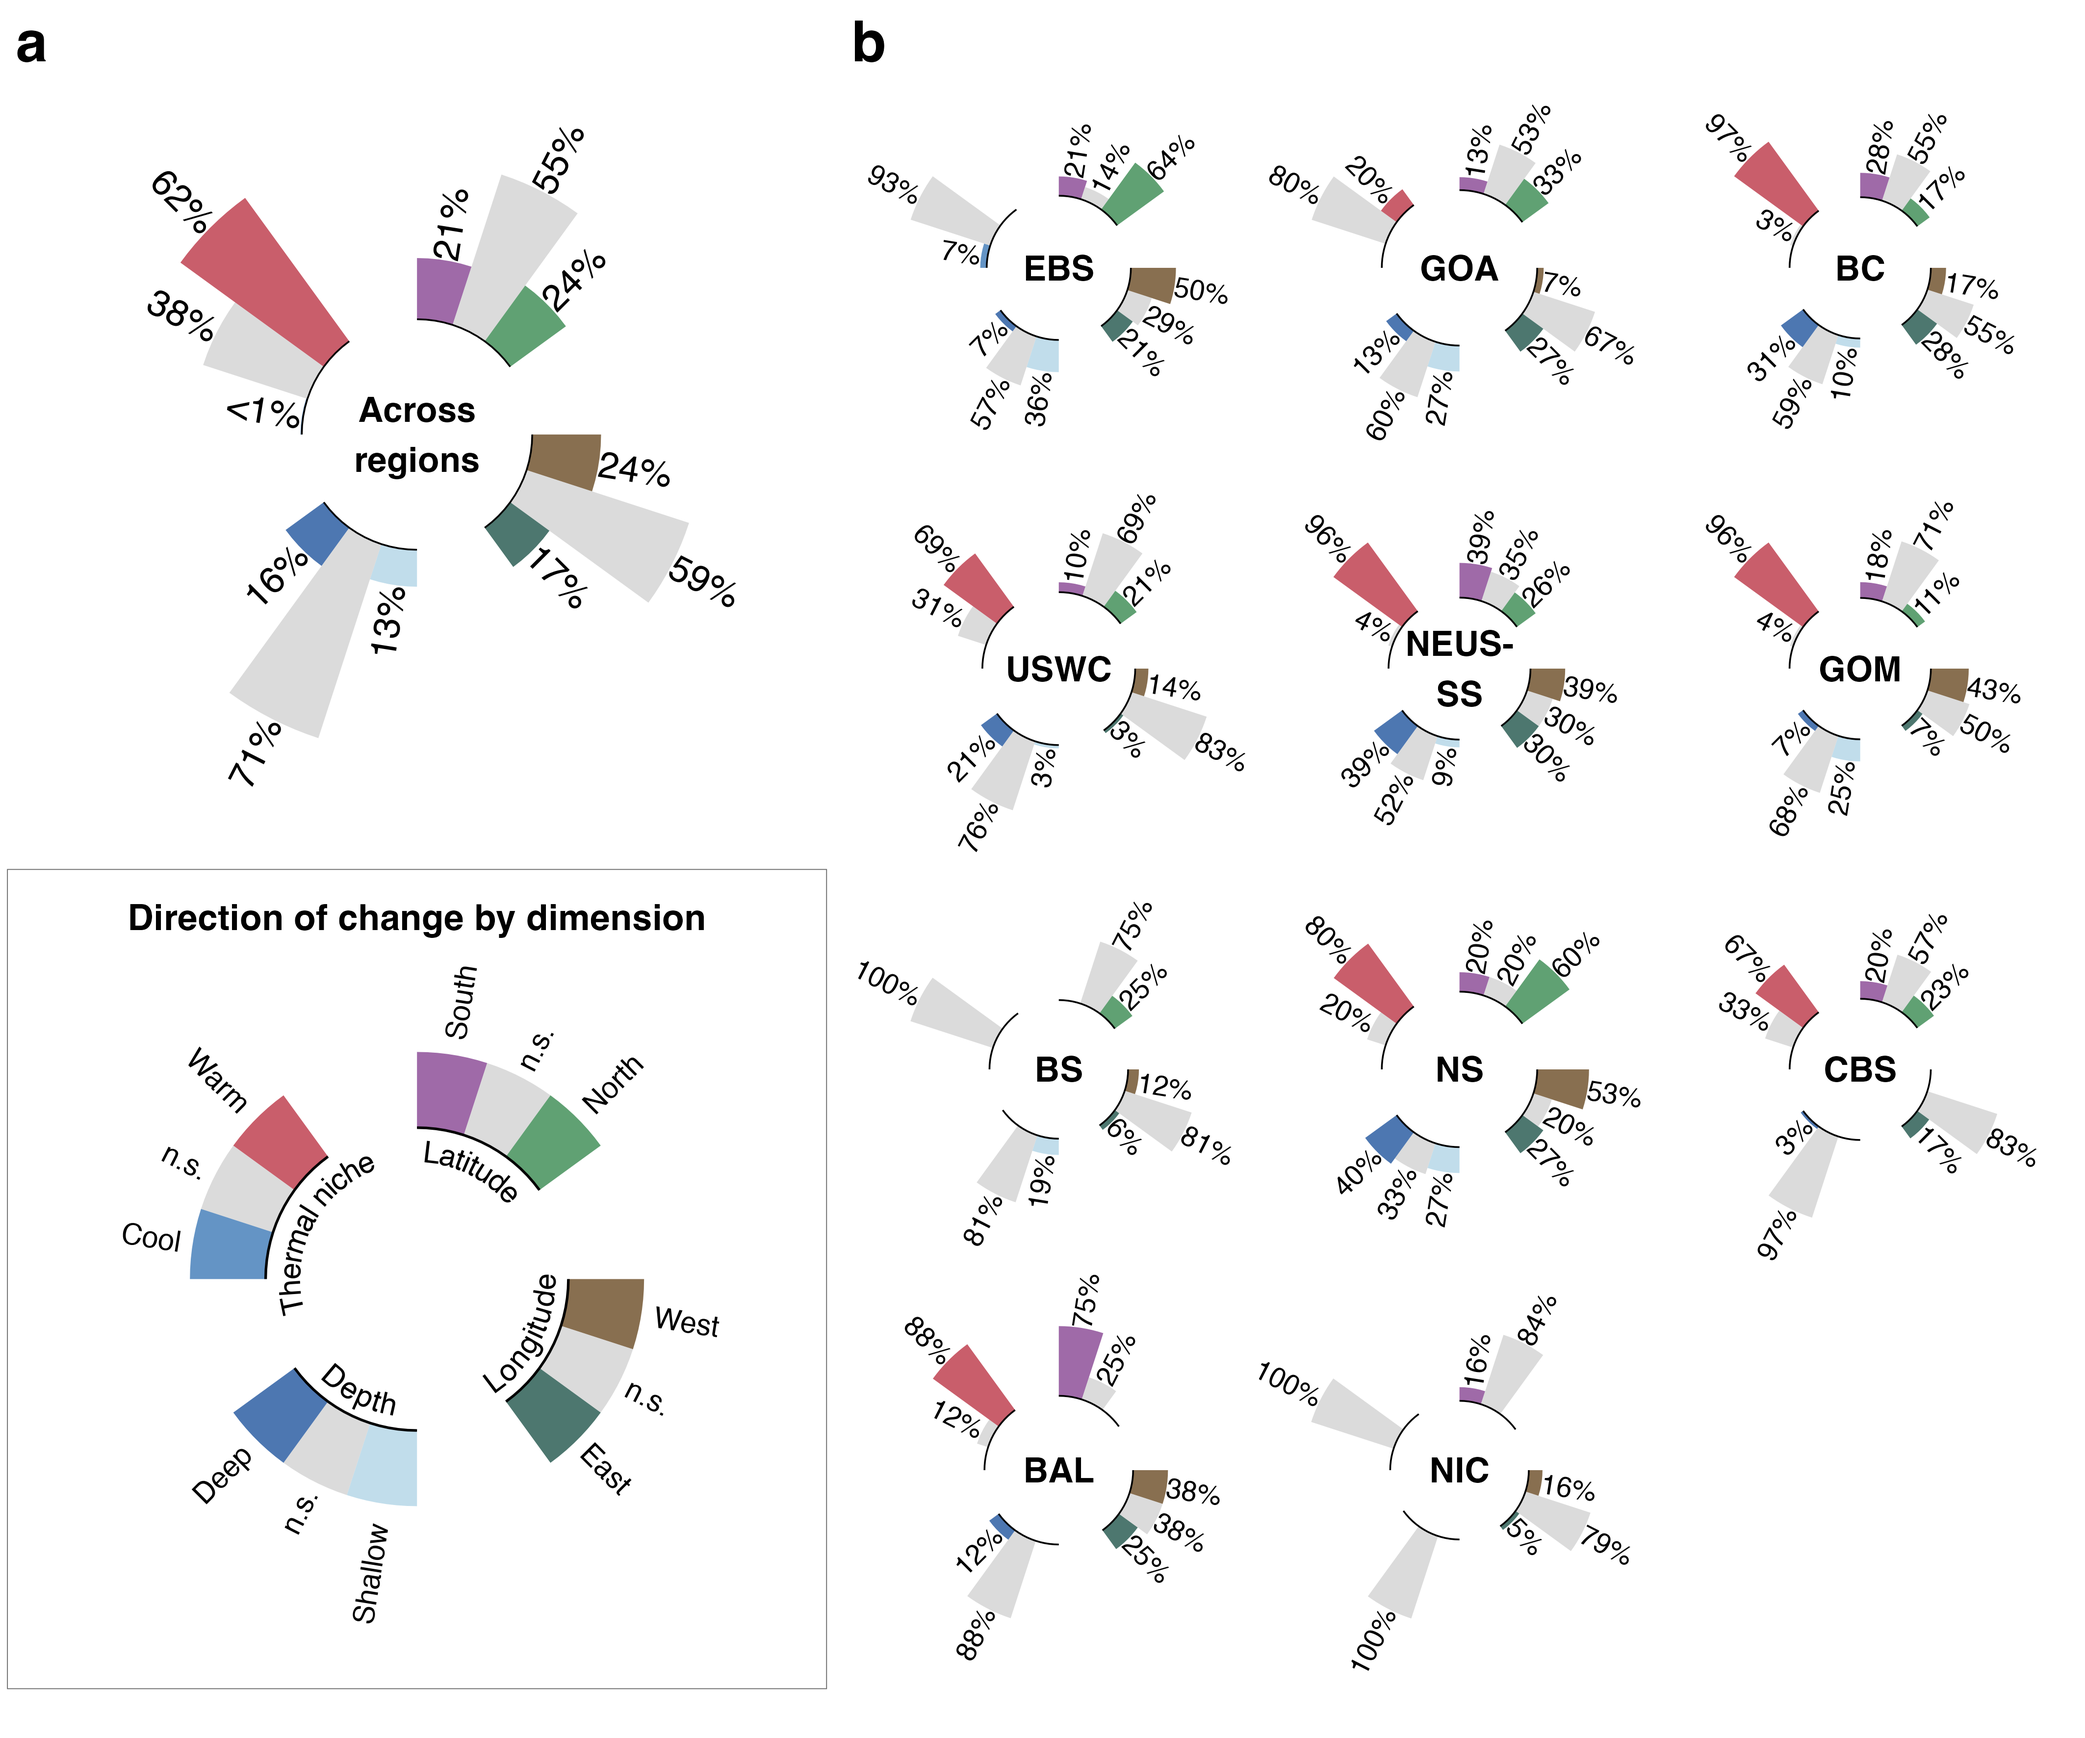
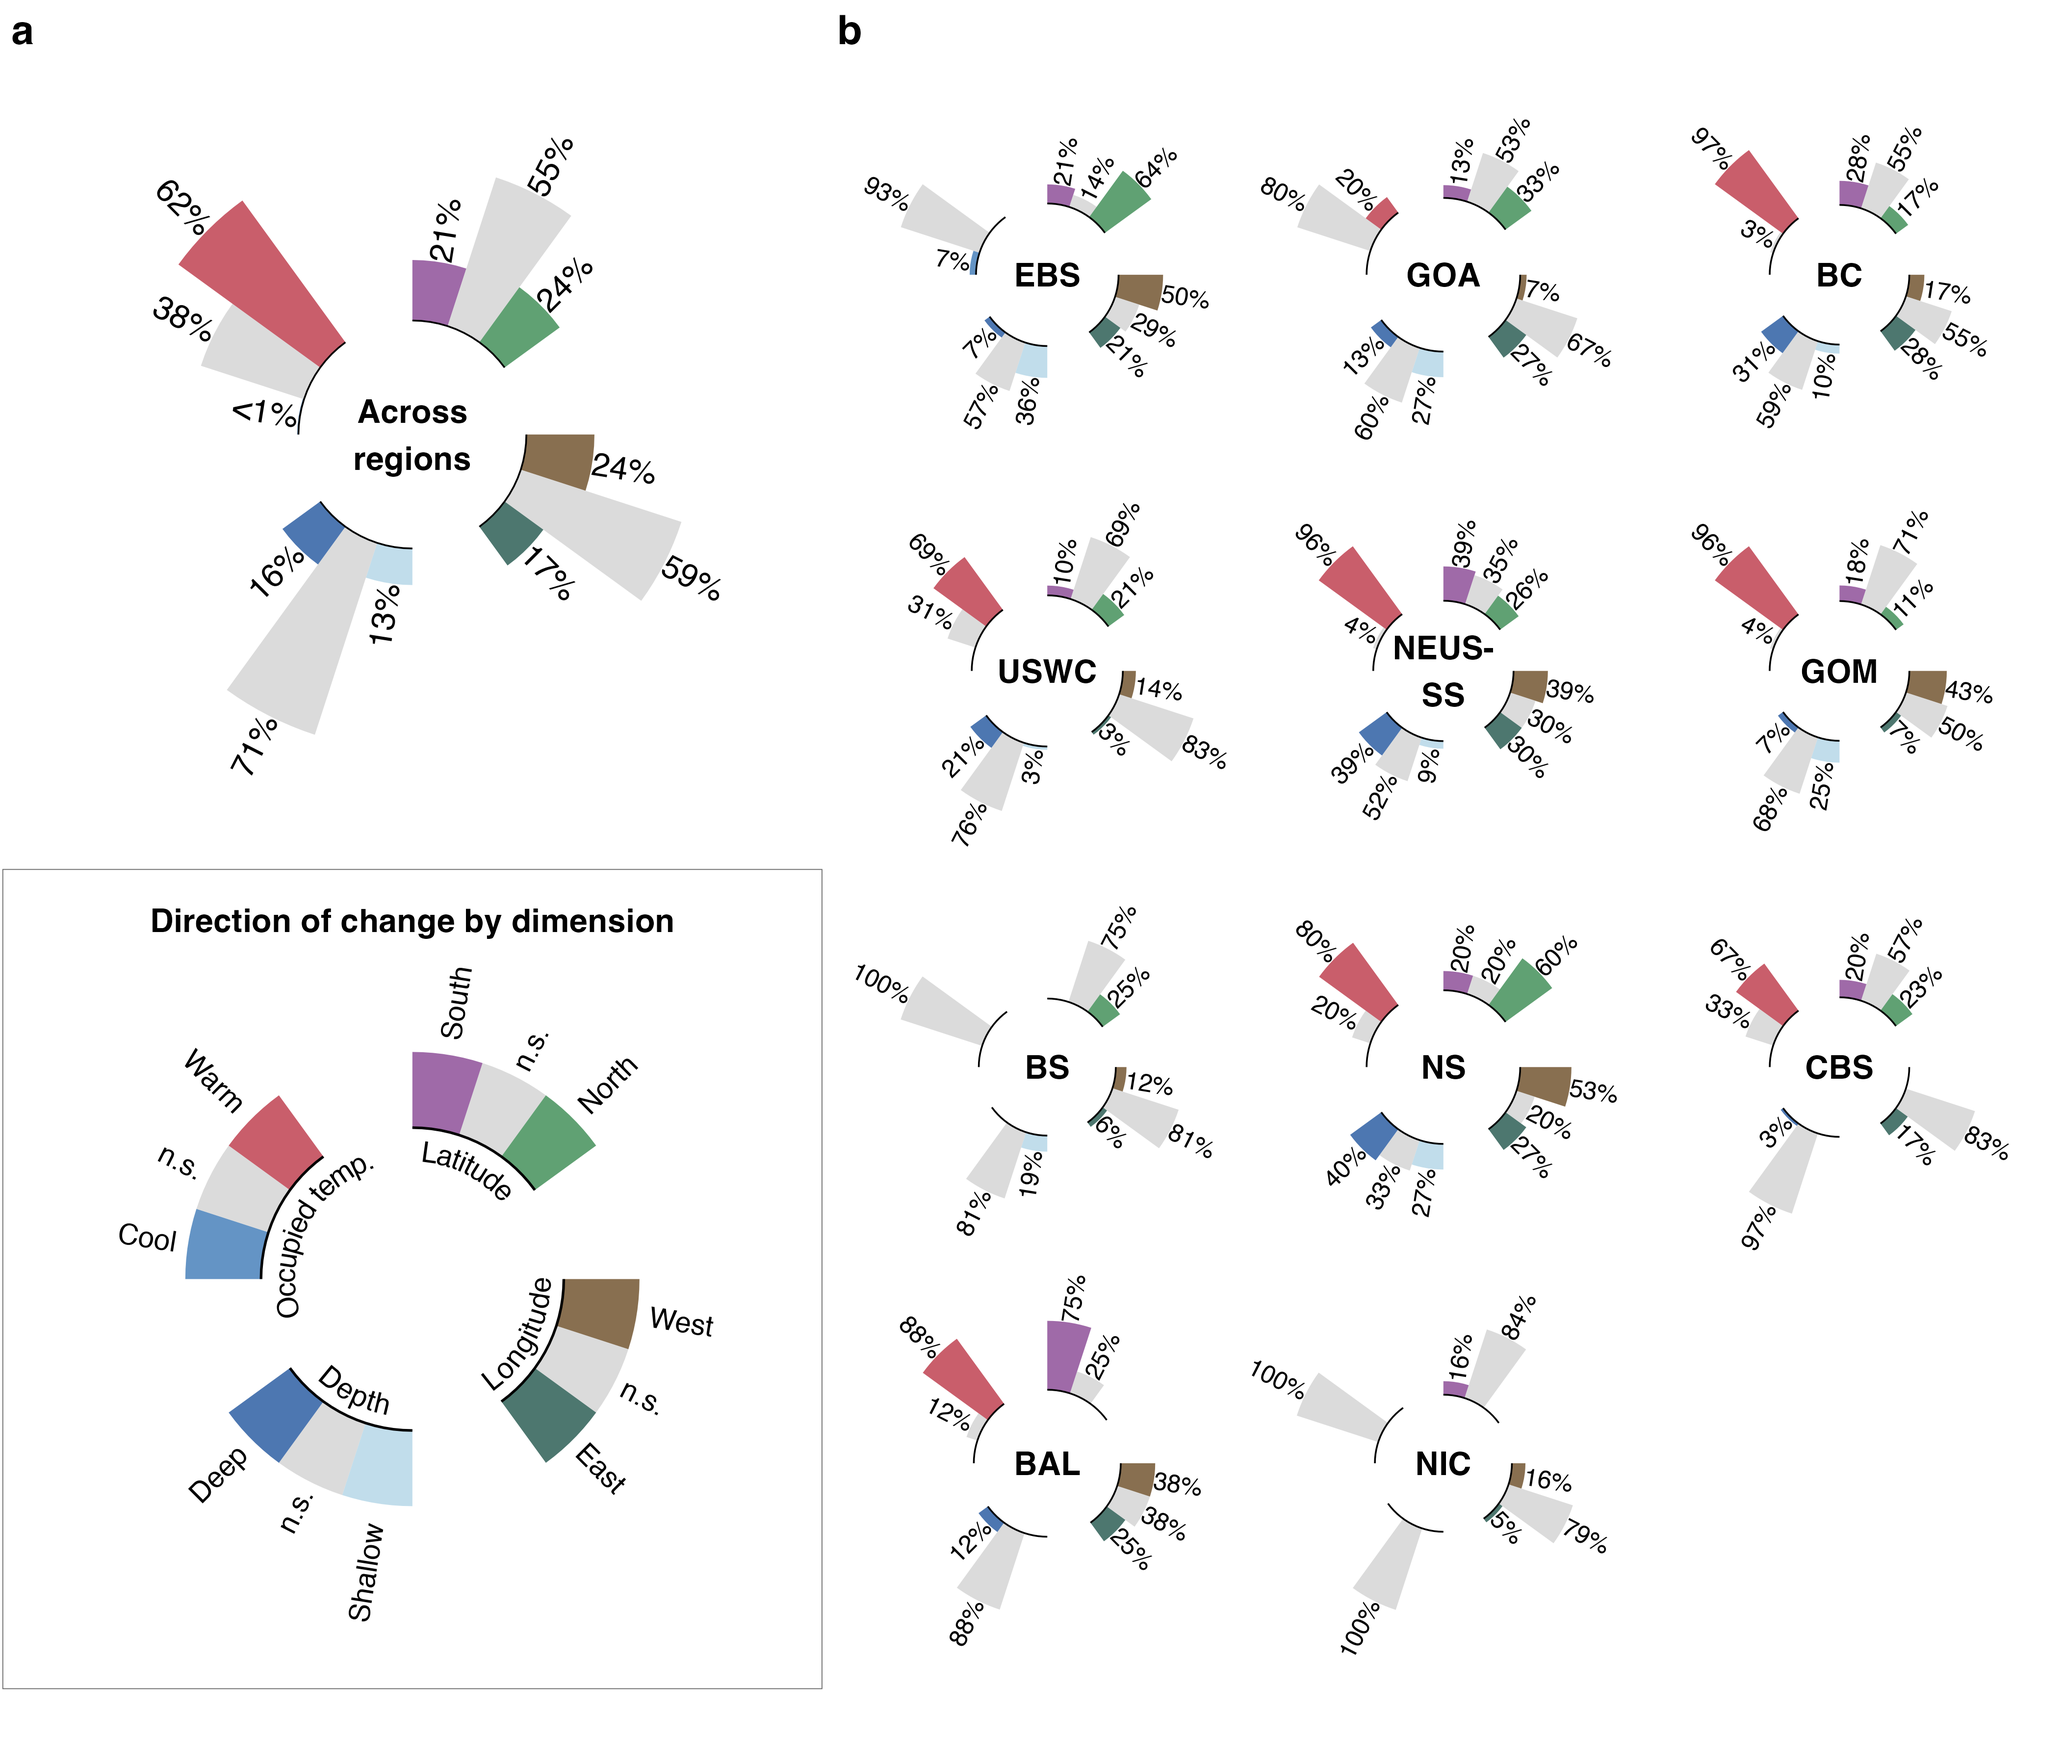
change thermal niche with occupied temperature

diff --git a/output/tables/supp/table_priors_supp.tex b/output/tables/supp/table_priors_supp.tex
@@ -6,27 +6,27 @@ Prior & Parameter & Coefficient & Group & Response & Source\\
 LKJ(1) & $\mathbf{R}_{r}$ &  &  &  & default\\
 Normal(0, 50) & $\beta$ & decade &  & lat centroid & user\\
 Normal(0, 50) & $\beta$ & decade &  & lon centroid & user\\
-Normal(0, 5) & $\beta$ & decade &  & depth niche & user\\
-Normal(0, 0.5) & $\beta$ & decade &  & thermal niche & user\\
+Normal(0, 5) & $\beta$ & decade &  & depth & user\\
+Normal(0, 0.5) & $\beta$ & decade &  & occupied temperature & user\\
 Gamma(2, 0.1) & $\nu$ &  &  & lat centroid & default\\
 Gamma(2, 0.1) & $\nu$ &  &  & lon centroid & default\\
-Gamma(2, 0.1) & $\nu$ &  &  & depth niche & default\\
-Gamma(2, 0.1) & $\nu$ &  &  & thermal niche & default\\
+Gamma(2, 0.1) & $\nu$ &  &  & depth & default\\
+Gamma(2, 0.1) & $\nu$ &  &  & occupied temperature & default\\
 Student-t(3, 0, 31) & $\sigma$ &  &  & lat centroid & default\\
 Student-t(3, 0, 27.9) & $\sigma$ &  &  & lon centroid & default\\
-Student-t(3, 0, 3.9) & $\sigma$ &  &  & depth niche & default\\
-Student-t(3, 0, 2.5) & $\sigma$ &  &  & thermal niche & default\\
+Student-t(3, 0, 3.9) & $\sigma$ &  &  & depth & default\\
+Student-t(3, 0, 2.5) & $\sigma$ &  &  & occupied temperature & default\\
 Student-t(3, 0, 30) & $\sigma$ & decade & region & lat centroid & user\\
 Student-t(3, 0, 30) & $\sigma$ & decade & region & lon centroid & user\\
-Student-t(3, 0, 10) & $\sigma$ & decade & region & depth niche & user\\
-Student-t(3, 0, 0.2) & $\sigma$ & decade & region & thermal niche & user\\
+Student-t(3, 0, 10) & $\sigma$ & decade & region & depth & user\\
+Student-t(3, 0, 0.2) & $\sigma$ & decade & region & occupied temperature & user\\
 Student-t(3, 0, 40) & $\sigma$ & decade & region:species & lat centroid & user\\
 Student-t(3, 0, 40) & $\sigma$ & decade & region:species & lon centroid & user\\
-Student-t(3, 0, 20) & $\sigma$ & decade & region:species & depth niche & user\\
-Student-t(3, 0, 0.4) & $\sigma$ & decade & region:species & thermal niche & user\\
+Student-t(3, 0, 20) & $\sigma$ & decade & region:species & depth & user\\
+Student-t(3, 0, 0.4) & $\sigma$ & decade & region:species & occupied temperature & user\\
 Student-t(3, 0, 31) & $\sigma$ &  &  & lat centroid & default\\
 Student-t(3, 0, 27.9) & $\sigma$ &  &  & lon centroid & default\\
-Student-t(3, 0, 3.9) & $\sigma$ &  &  & depth niche & default\\
-Student-t(3, 0, 2.5) & $\sigma$ &  &  & thermal niche & default\\
+Student-t(3, 0, 3.9) & $\sigma$ &  &  & depth & default\\
+Student-t(3, 0, 2.5) & $\sigma$ &  &  & occupied temperature & default\\
 \bottomrule
 \end{tabular}
